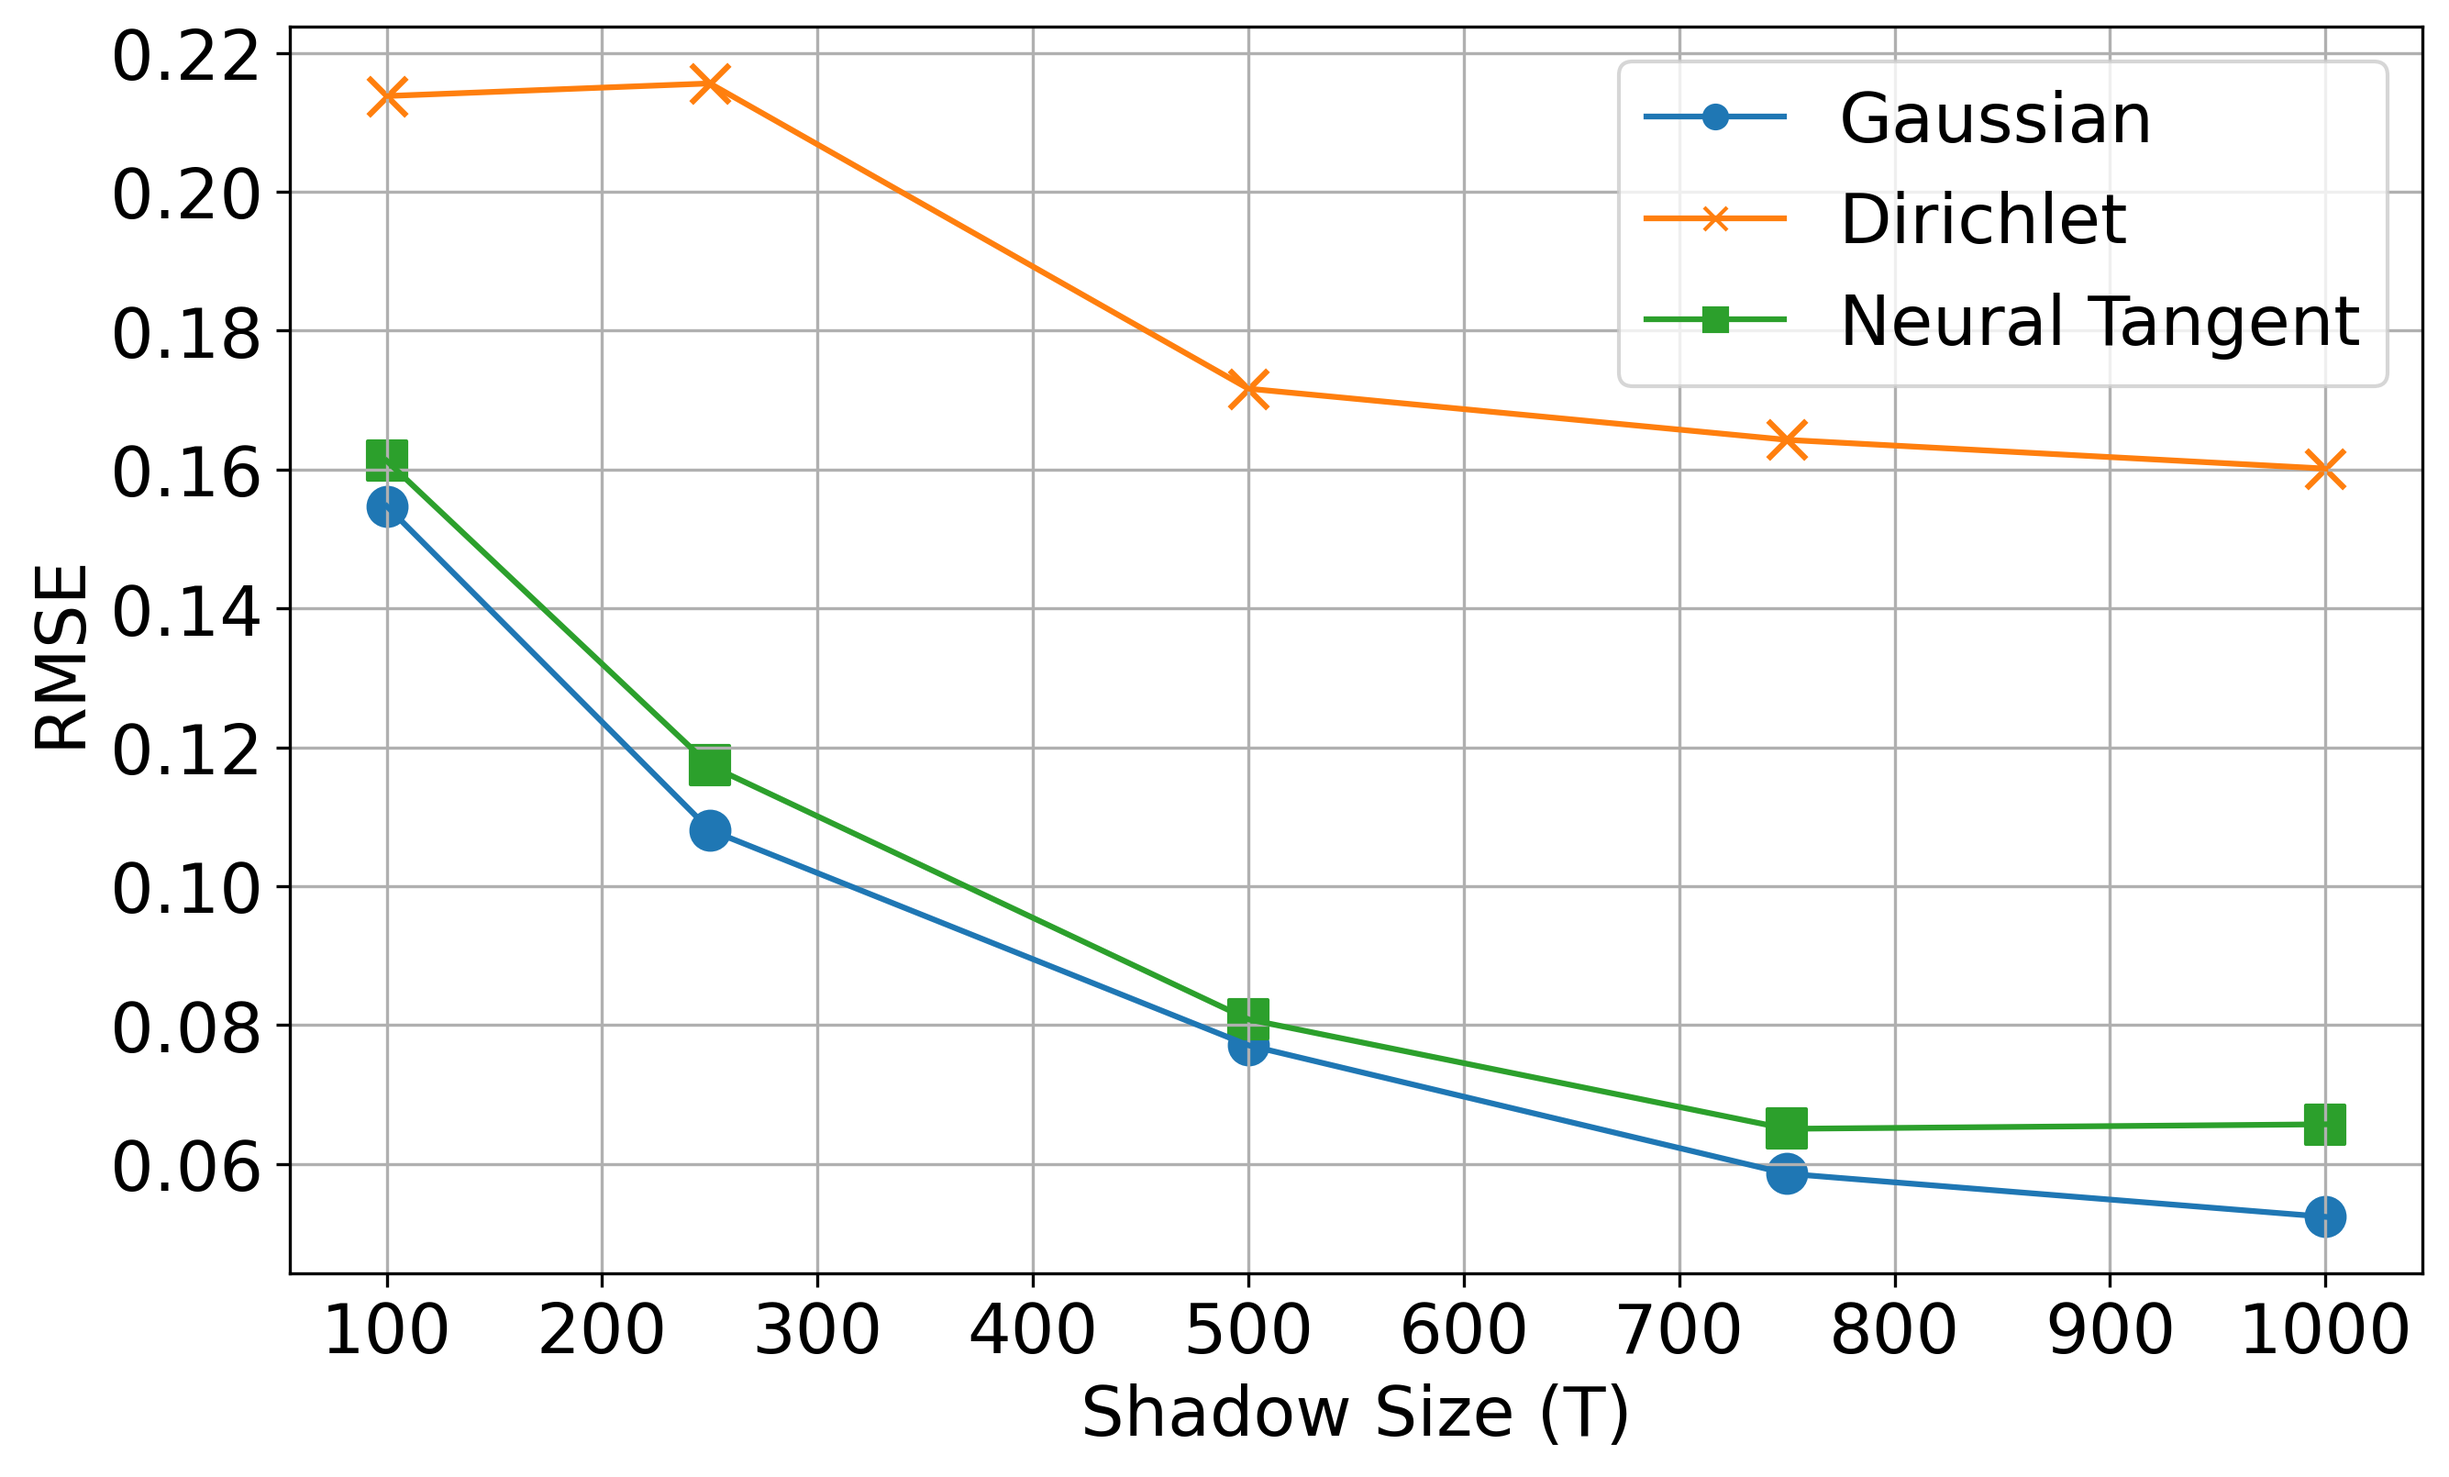
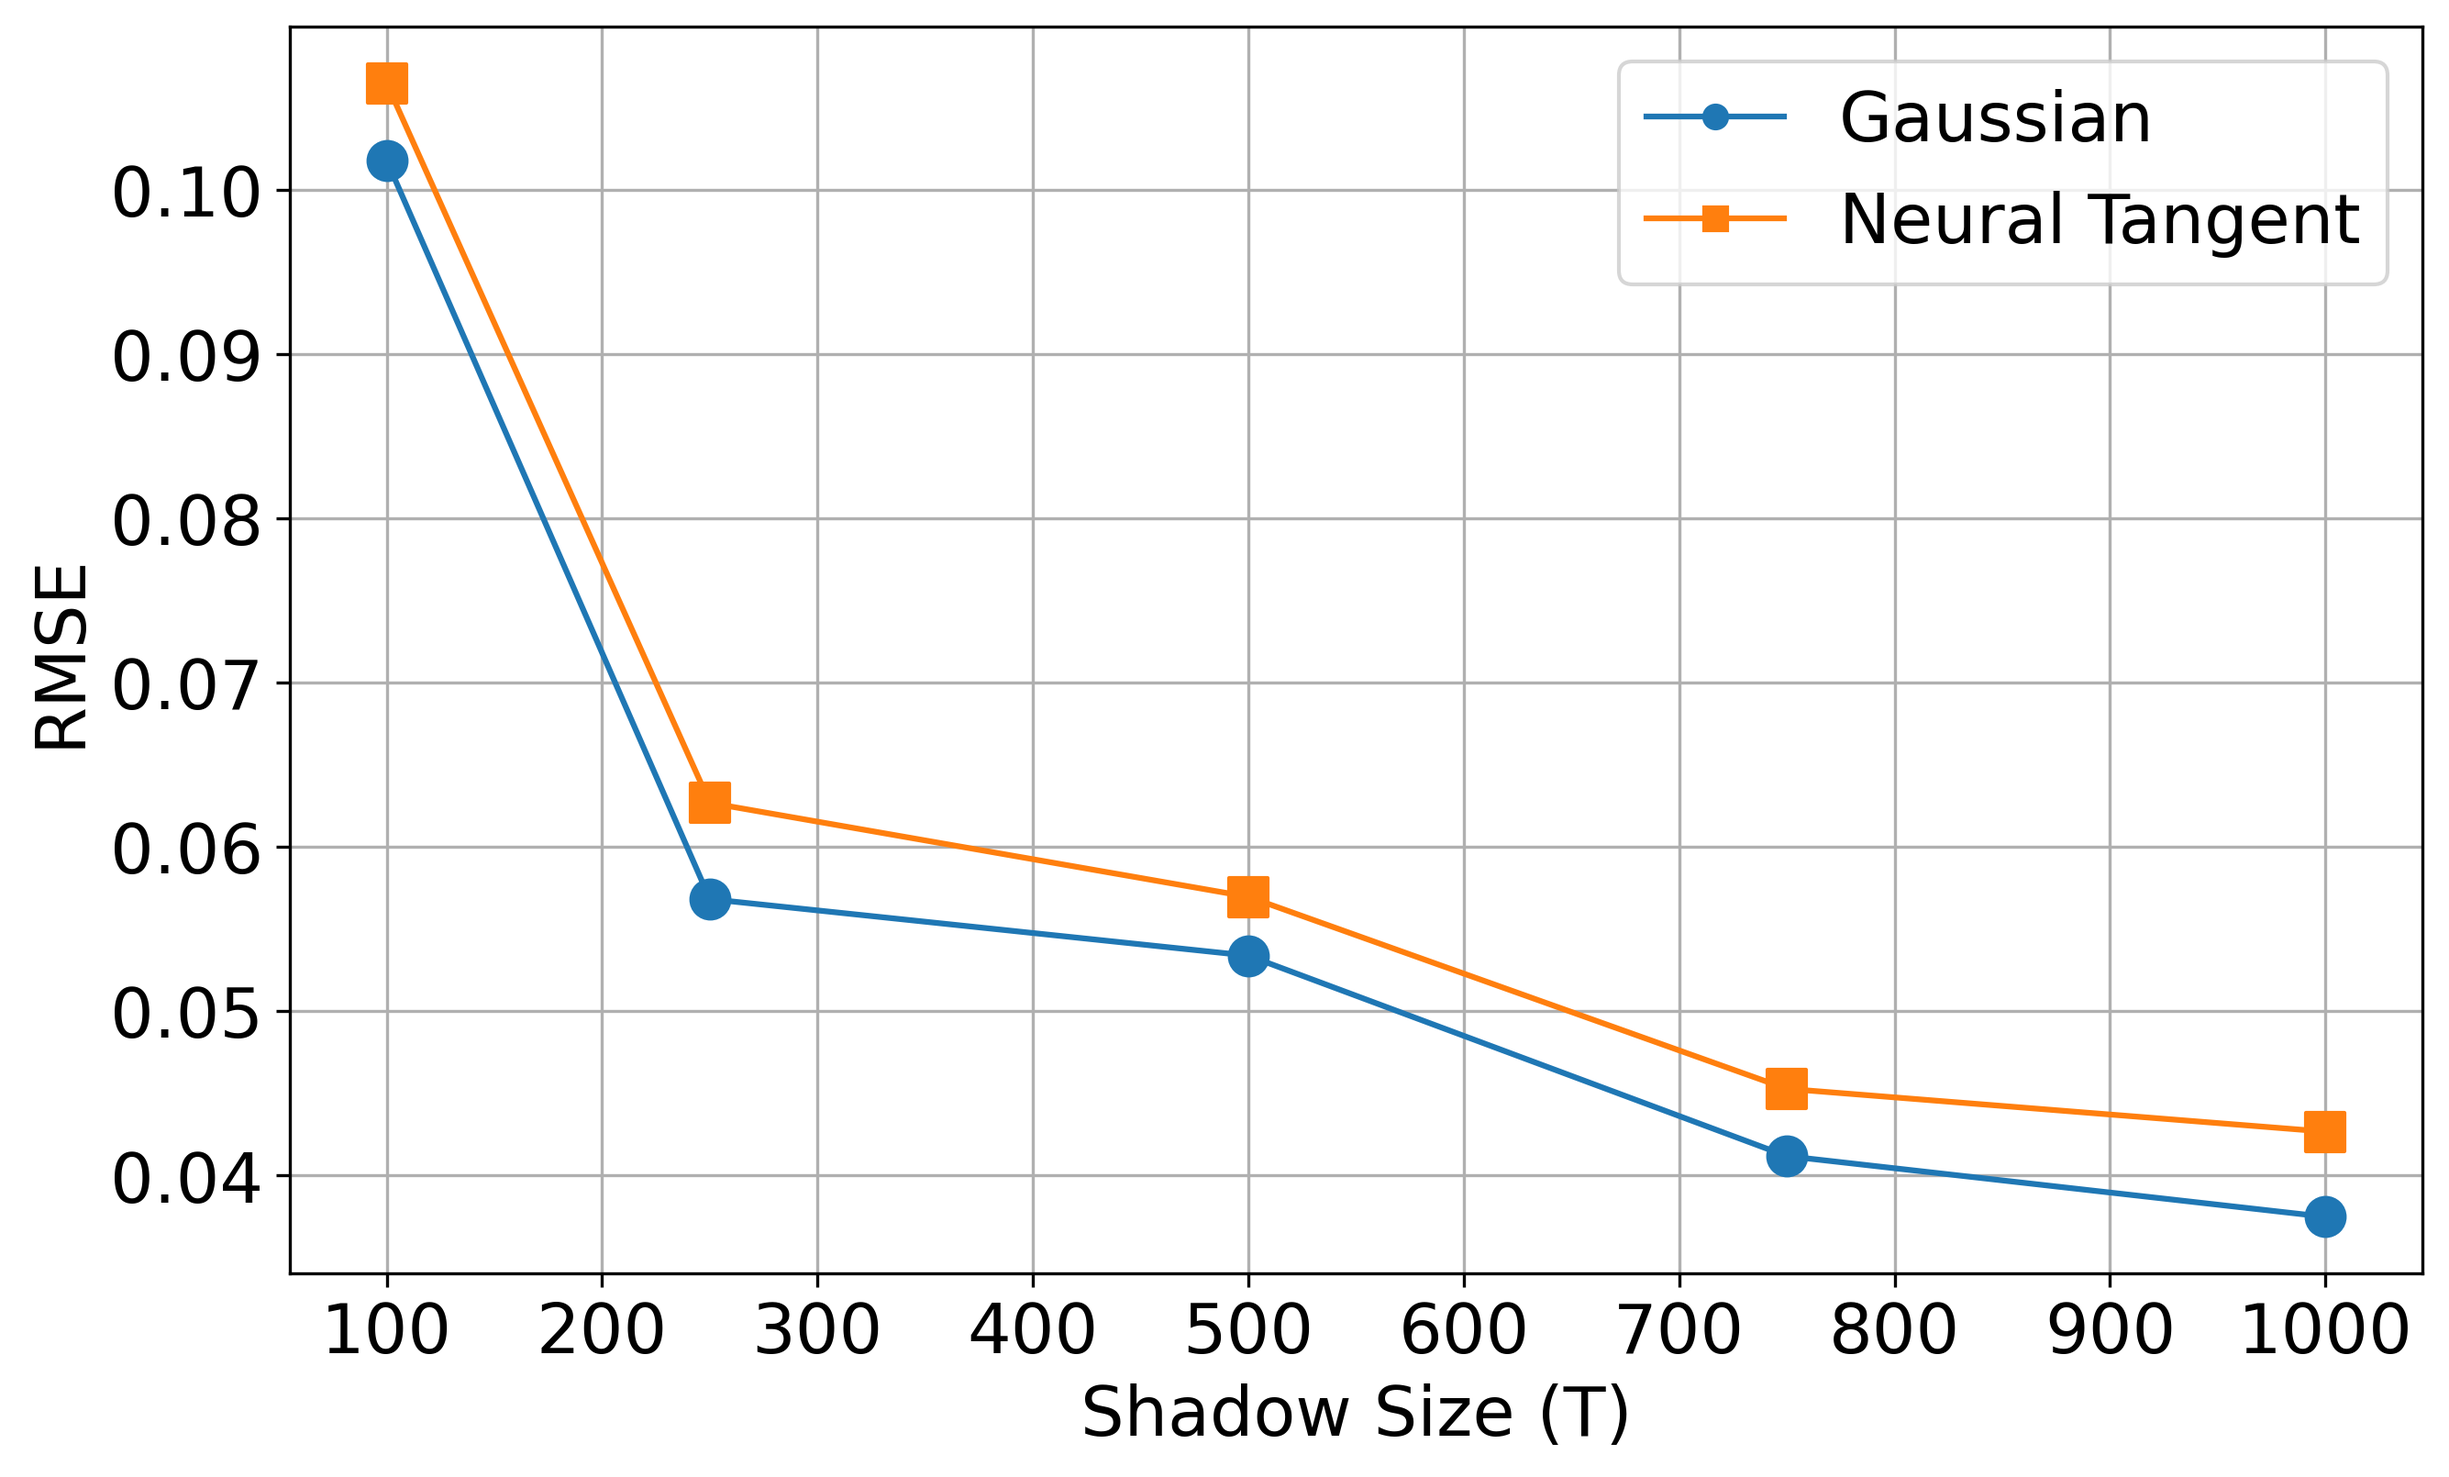
add conclusion and update rmse figures

diff --git a/demonstrations/tutorial_ml_classical_shadows.py b/demonstrations/tutorial_ml_classical_shadows.py
@@ -118,13 +118,12 @@ import pennylane as qml
 def Hamiltonian(J_mat):
     coeffs, ops = [], []
     ns = J_mat.shape[0]
-    for i in range(ns):
-        for j in range(i + 1, ns):
+    for i, j in it.combinations(range(ns), r=2):
+        coeff = J_mat[i, j]
+        if coeff:
             for op in [qml.PauliX, qml.PauliY, qml.PauliZ]:
-                coeff = J_mat[i, j]
-                if coeff:
-                    coeffs.append(coeff)
-                    ops.append(op(i) @ op(j))
+                coeffs.append(coeff)
+                ops.append(op(i) @ op(j))
     H = qml.Hamiltonian(coeffs, ops)
     return H
 
@@ -141,7 +140,10 @@ print(f"Hamiltonian =\n{Hamiltonian(J_mat)}")
 def corr_function(i, j):
     ops = []
     for op in [qml.PauliX, qml.PauliY, qml.PauliZ]:
-        ops.append(op(i) @ op(j)) if i != j else ops.append(qml.Identity(i))
+        if i != j:
+            ops.append(op(i) @ op(j))
+        else:
+            ops.append(qml.Identity(i))
     return ops
 
 ######################################################################   
@@ -368,7 +370,7 @@ def shadow_state_reconst(shadow):
 
 def estimate_shadow_obs(shadow, observable, k=10):
     shadow_size = shadow[0].shape[0]
-    
+
     # convert Pennylane observables to indices
     map_name_to_int = {"PauliX": 0, "PauliY": 1, "PauliZ": 2}
     if isinstance(observable, (qml.PauliX, qml.PauliY, qml.PauliZ)):
@@ -598,6 +600,7 @@ for i in range(len(kernel_NN)):
 # from the ``sklearn`` library.
 #
 
+from sklearn.metrics import mean_squared_error
 
 def fit_predict_data(cij, kernel, opt="linear"):
 
@@ -634,9 +637,9 @@ def fit_predict_data(cij, kernel, opt="linear"):
                 best_model = model(hyperparam).fit(X_train, y_train)
                 best_pred = best_model.predict(X_test)
                 best_cv_score = cv_score
-                best_test_score = np.linalg.norm(
-                    best_model.predict(X_test).ravel() - y_test_clean.ravel()
-                ) / (len(y_test) ** 0.5)
+                best_test_score = mean_squared_error(
+                    best_model.predict(X_test).ravel(), y_test_clean.ravel(), squared=False
+                )
 
     return (
         best_pred, y_test_clean, np.round(best_cv_score, 5), np.round(best_test_score, 5)
@@ -727,25 +730,33 @@ plt.show()
 ######################################################################
 # Finally, we also attempt to showcase the effect of the size of training data
 # :math:`N` and the number of Pauli measurements :math:`T`. For this, we look
-# at the average value of ``best_cv_score`` for each mode, which gives us the
-# root-mean-square error (RMSE) for predicting :math:`C_{ij}`. Here, the first
+# at the average root-mean-square error (RMSE) in prediction for each kernel
+# over all two-point correlation functions :math:`C_{ij}`. Here, the first
 # plot looks at the different training sizes :math:`N` with a fixed number of
 # randomized Pauli measurements :math:`T=100`. In contrast, the second plot
 # looks at the different shadow sizes :math:`T` with a fixed training data size
-# :math:`N=70`. The performance improvement saturates after a sufficient increase
-# in :math:`N` and :math:`T` values for all two kernels in both the cases.
+# :math:`N=70`. The performance improvement seems to be saturating after a
+# sufficient increase in :math:`N` and :math:`T` values for all two kernels
+# in both the cases.
 #
 
-
 ######################################################################
-# .. image::  /demonstrations/ml_classical_shadows/rmse_shadow.png
-#     :width: 47 %
 # .. image::  /demonstrations/ml_classical_shadows/rmse_training.png
 #     :width: 47 %
 #
-# Error in predicting two-point correlation functions over different training
-# size :math:`N` and different shadow size :math:`T`.
+# .. image::  /demonstrations/ml_classical_shadows/rmse_shadow.png
+#     :width: 47 %
 #   
+
+######################################################################
+# This demo concludes that classical machine learning models can benefit from
+# classical shadow formalism derived from randomized Pauli measurements
+# for learning characteristics and predicting the behavior of quantum systems.
+# Therefore, as demonstrated in Ref. [#preskill]_, we hope that models trained
+# on experimental data can effectively address quantum many-body problems that
+# cannot be solved using classical methods alone. 
+#
+
 
 
 ######################################################################
